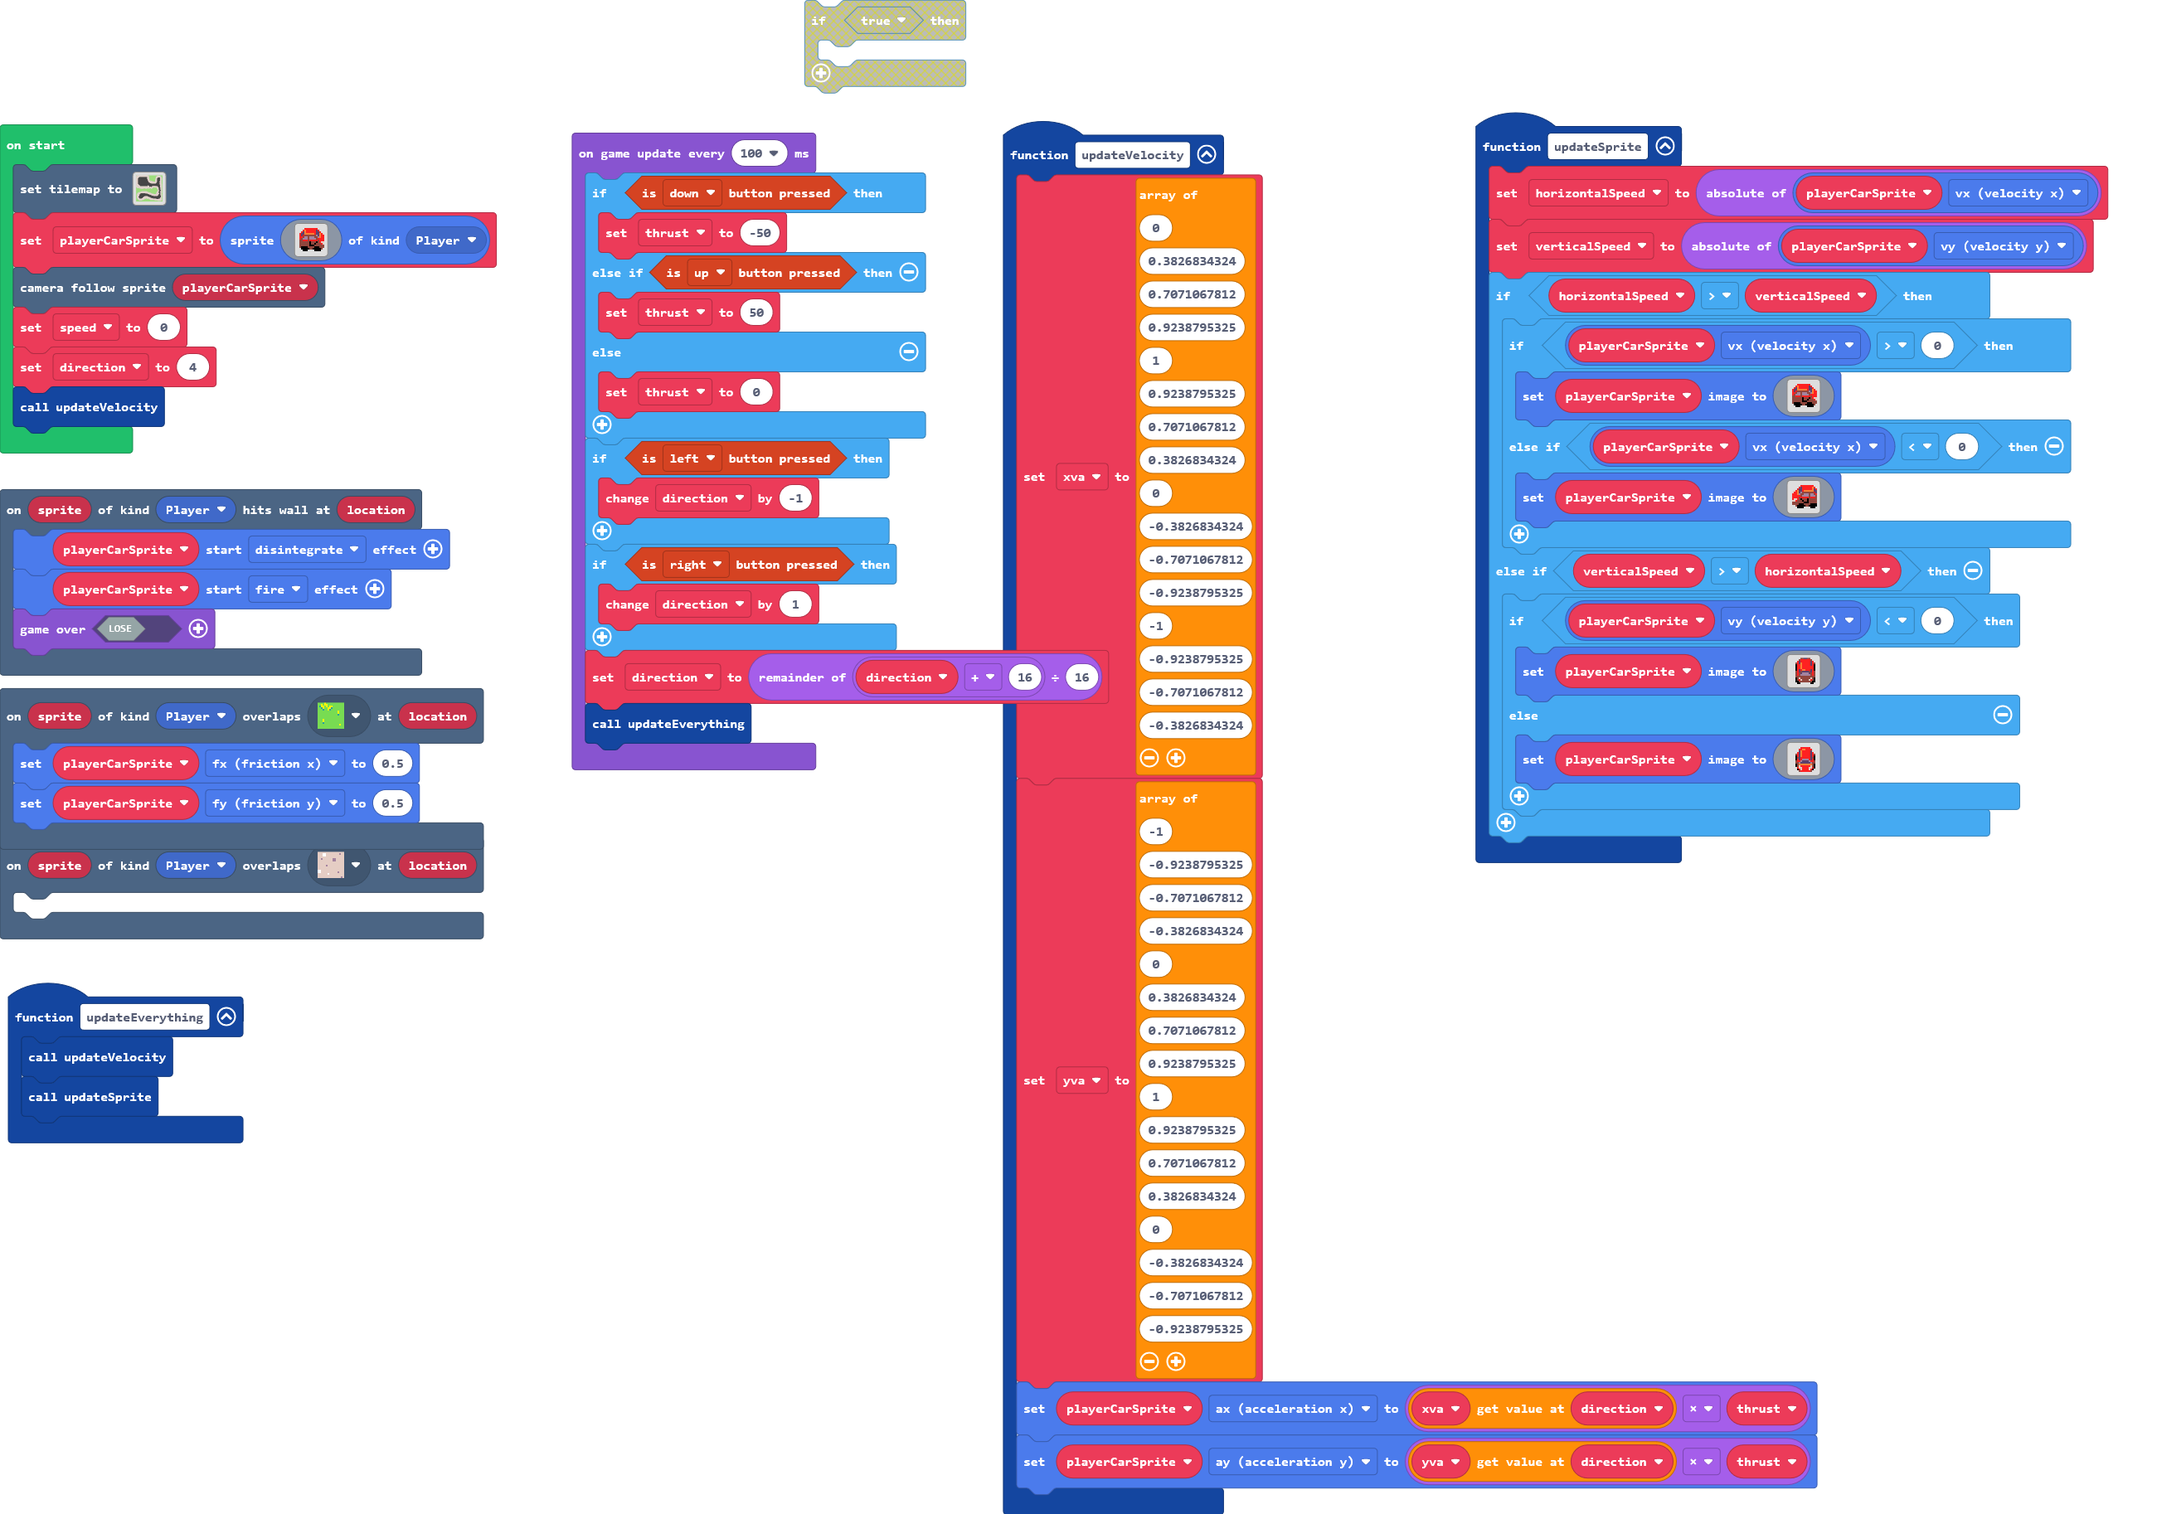
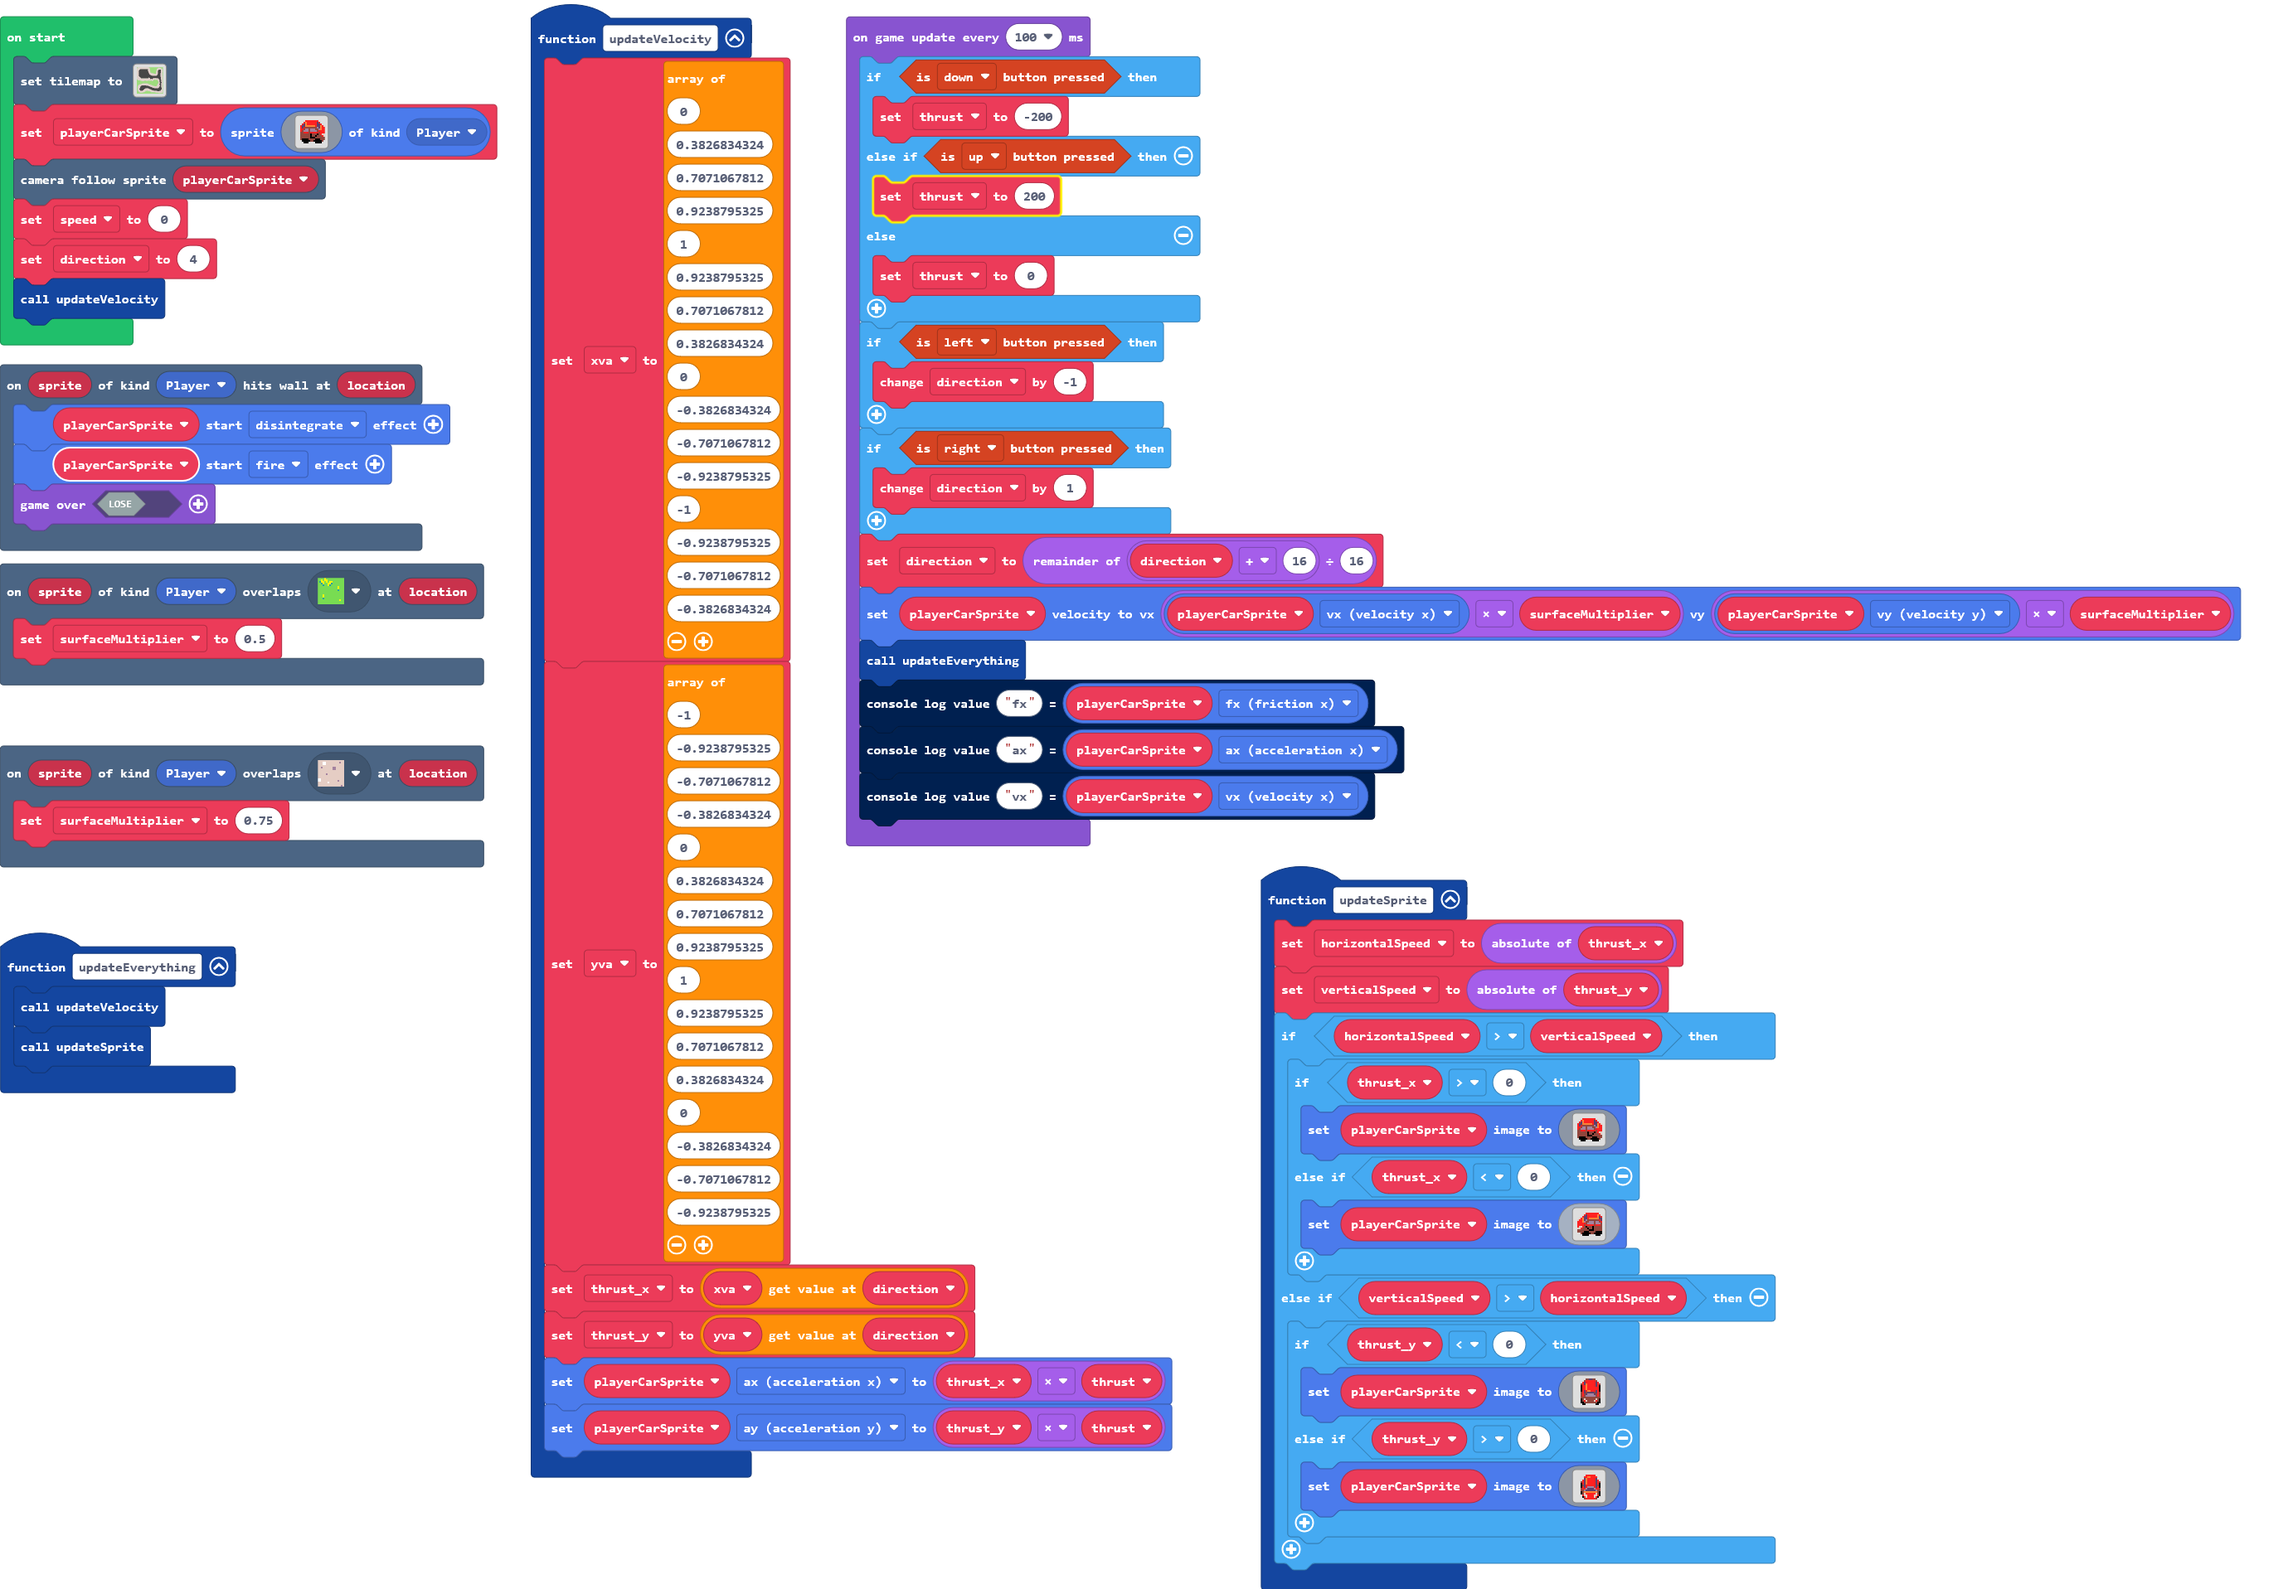
Spaceship physics

diff --git a/main.ts b/main.ts
@@ -40,17 +40,19 @@ function updateVelocity () {
     -0.7071067812,
     -0.9238795325
     ]
-    playerCarSprite.ax = xva[direction] * thrust
-    playerCarSprite.ay = yva[direction] * thrust
+    thrust_x = xva[direction]
+    thrust_y = yva[direction]
+    playerCarSprite.ax = thrust_x * thrust
+    playerCarSprite.ay = thrust_y * thrust
 }
 scene.onOverlapTile(SpriteKind.Player, sprites.castle.tilePath5, function (sprite, location) {
-	
+    surfaceMultiplier = 0.75
 })
 function updateSprite () {
-    horizontalSpeed = Math.abs(playerCarSprite.vx)
-    verticalSpeed = Math.abs(playerCarSprite.vy)
+    horizontalSpeed = Math.abs(thrust_x)
+    verticalSpeed = Math.abs(thrust_y)
     if (horizontalSpeed > verticalSpeed) {
-        if (playerCarSprite.vx > 0) {
+        if (thrust_x > 0) {
             playerCarSprite.setImage(img`
                 . . . . . . . . . . . . . . . . 
                 . . . . 2 2 2 2 2 2 2 2 . . . . 
@@ -69,7 +71,7 @@ function updateSprite () {
                 . . . f f f . . . . f f f f . . 
                 . . . . . . . . . . . . . . . . 
                 `)
-        } else if (playerCarSprite.vx < 0) {
+        } else if (thrust_x < 0) {
             playerCarSprite.setImage(img`
                 . . . . . . . . . . . . . . . . 
                 . . . . . . 2 2 2 2 2 2 2 2 . . 
@@ -90,7 +92,7 @@ function updateSprite () {
                 `)
         }
     } else if (verticalSpeed > horizontalSpeed) {
-        if (playerCarSprite.vy < 0) {
+        if (thrust_y < 0) {
             playerCarSprite.setImage(img`
                 . . . . . . e e c c e e . . . . 
                 . . . . . e 2 2 2 2 2 2 e . . . 
@@ -109,7 +111,7 @@ function updateSprite () {
                 . . . f f e e e e e e e e f f . 
                 . . . . f f . . . . . . f f . . 
                 `)
-        } else {
+        } else if (thrust_y > 0) {
             playerCarSprite.setImage(img`
                 . . . . . . . . . . . . . . . . 
                 . . . . . . 2 2 2 2 2 2 . . . . 
@@ -132,8 +134,7 @@ function updateSprite () {
     }
 }
 scene.onOverlapTile(SpriteKind.Player, sprites.castle.tileGrass1, function (sprite, location) {
-    playerCarSprite.fx = 0.5
-    playerCarSprite.fy = 0.5
+    surfaceMultiplier = 0.5
 })
 function updateEverything () {
     updateVelocity()
@@ -141,7 +142,10 @@ function updateEverything () {
 }
 let verticalSpeed = 0
 let horizontalSpeed = 0
+let surfaceMultiplier = 0
 let thrust = 0
+let thrust_y = 0
+let thrust_x = 0
 let yva: number[] = []
 let xva: number[] = []
 let direction = 0
@@ -171,9 +175,9 @@ direction = 4
 updateVelocity()
 game.onUpdateInterval(100, function () {
     if (controller.down.isPressed()) {
-        thrust = -50
+        thrust = -200
     } else if (controller.up.isPressed()) {
-        thrust = 50
+        thrust = 200
     } else {
         thrust = 0
     }
@@ -184,5 +188,9 @@ game.onUpdateInterval(100, function () {
         direction += 1
     }
     direction = (direction + 16) % 16
+    playerCarSprite.setVelocity(playerCarSprite.vx * surfaceMultiplier, playerCarSprite.vy * surfaceMultiplier)
     updateEverything()
+    console.logValue("fx", playerCarSprite.fx)
+    console.logValue("ax", playerCarSprite.ax)
+    console.logValue("vx", playerCarSprite.vx)
 })

diff --git a/images.g.ts b/images.g.ts
@@ -309,24 +309,6 @@ namespace myImages {
 . . . f f f . . . . f f f f . . 
 . . . . . . . . . . . . . . . . 
 `;
-            case "image18":return img`
-. . . . . . . . . . . . . . . . 
-. . . . . . 2 2 2 2 2 2 2 2 . . 
-. . . . . 2 c 2 2 2 2 2 2 4 2 . 
-. . . . 2 c c 2 2 2 2 2 2 4 c 2 
-. . d 2 4 c c 2 4 4 4 4 4 4 c c 
-. d 2 2 4 c b e e e e e e e 2 c 
-. 2 2 2 4 b e e b b b e b b e 2 
-. 2 2 2 2 2 e b b b b e b b b e 
-. 2 2 2 2 e 2 2 2 2 2 e 2 2 2 e 
-. 2 d d 2 e f e e e f e e e e e 
-. d d 2 e e e f e e f e e e e e 
-. e e e e e e e f f f e e e e e 
-. e e e e f f f e e e e f f f f 
-. . . e f f f f f e e f f f f f 
-. . . . f f f f . . . . f f f . 
-. . . . . . . . . . . . . . . . 
-`;
             case "image19":return img`
 . . . . . . e e c c e e . . . . 
 . . . . . e 2 2 2 2 2 2 e . . . 
@@ -362,6 +344,42 @@ namespace myImages {
 . . . . 2 d d 2 2 2 2 d d 2 f . 
 . . . . f 2 d 2 2 2 2 d 2 f . . 
 . . . . . e 2 2 2 2 2 2 e . . . 
+`;
+            case "image21":return img`
+. . . . . . . . . . . . . . . . 
+. . . . . . 2 2 2 2 2 2 2 2 . . 
+. . . . . 2 c 2 2 2 2 2 2 4 2 . 
+. . . . 2 c c 2 2 2 2 2 2 4 c 2 
+. . d 2 4 c c 2 4 4 4 4 4 4 c c 
+. d 2 2 4 c b e e e e e e e 2 c 
+. 2 2 2 4 b e e b b b e b b e 2 
+. 2 2 2 2 2 e b b b b e b b b e 
+. 2 2 2 2 e 2 2 2 2 2 e 2 2 2 e 
+. 2 d d 2 e f e e e f e e e e e 
+. d d 2 e e e f e e f e e e e e 
+. e e e e e e e f f f e e e e e 
+. e e e e f f f e e e e f f f f 
+. . . e f f f f f e e f f f f f 
+. . . . f f f f . . . . f f f . 
+. . . . . . . . . . . . . . . . 
+`;
+            case "image18":return img`
+. . . . . . . . . . . . . . . . 
+. . . . . . 2 2 2 2 2 2 2 2 . . 
+. . . . . 2 c 2 2 2 2 2 2 4 2 . 
+. . . . 2 c c 2 2 2 2 2 2 4 c 2 
+. . d 2 4 c c 2 4 4 4 4 4 4 c c 
+. d 2 2 4 c b e e e e e e e 2 c 
+. 2 2 2 4 b e e b b b e b b e 2 
+. 2 2 2 2 2 e b b b b e b b b e 
+. 2 2 2 2 e 2 2 2 2 2 e 2 2 2 e 
+. 2 d d 2 e f e e e f e e e e e 
+. d d 2 e e e f e e f e e e e e 
+. e e e e e e e f f f e e e e e 
+. e e e e f f f e e e e f f f f 
+. . . e f f f f f e e f f f f f 
+. . . . f f f f . . . . f f f . 
+. . . . . . . . . . . . . . . . 
 `;
         }
         return null;
